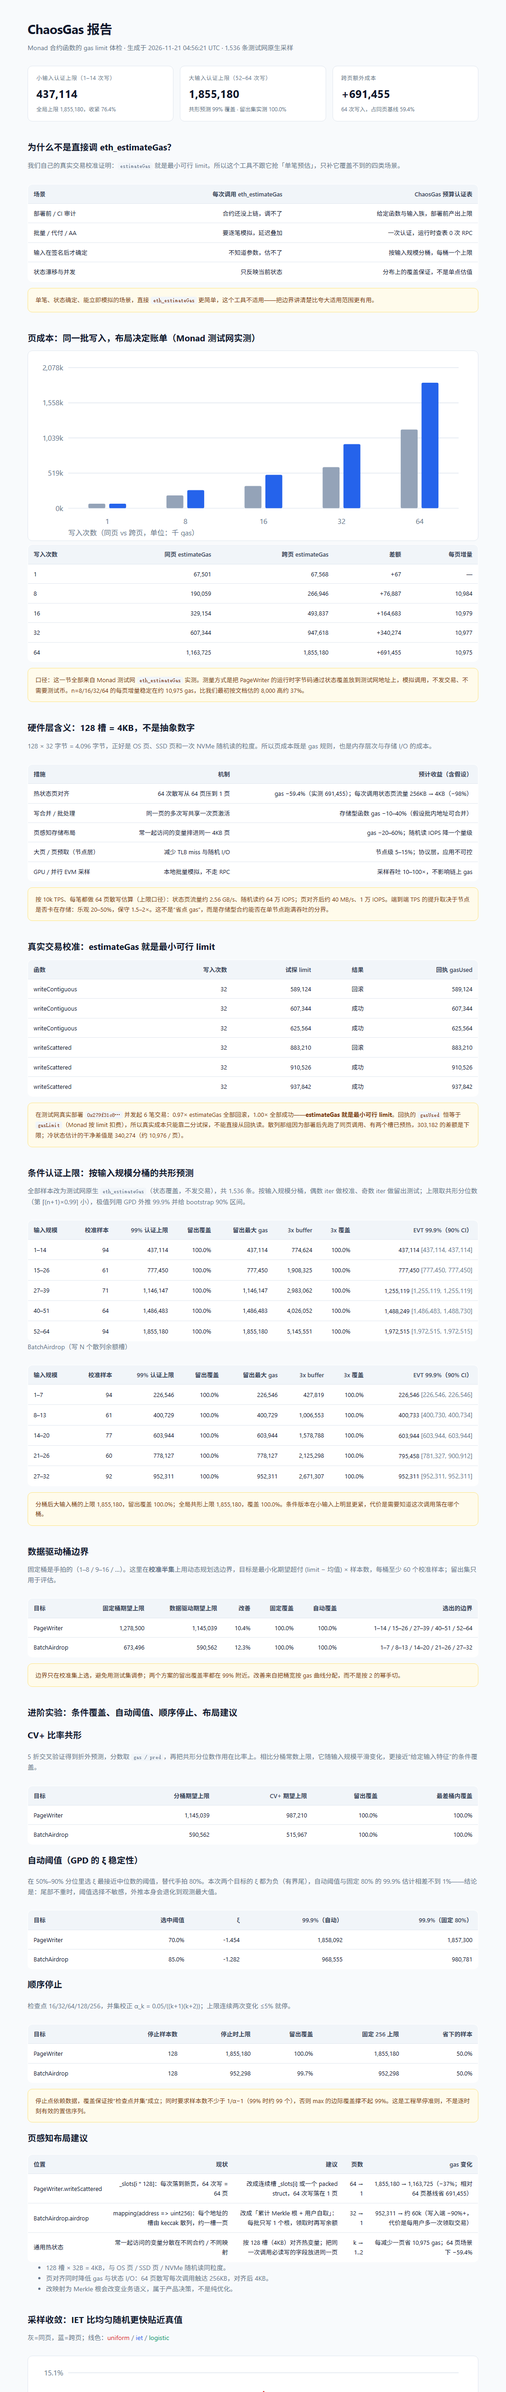
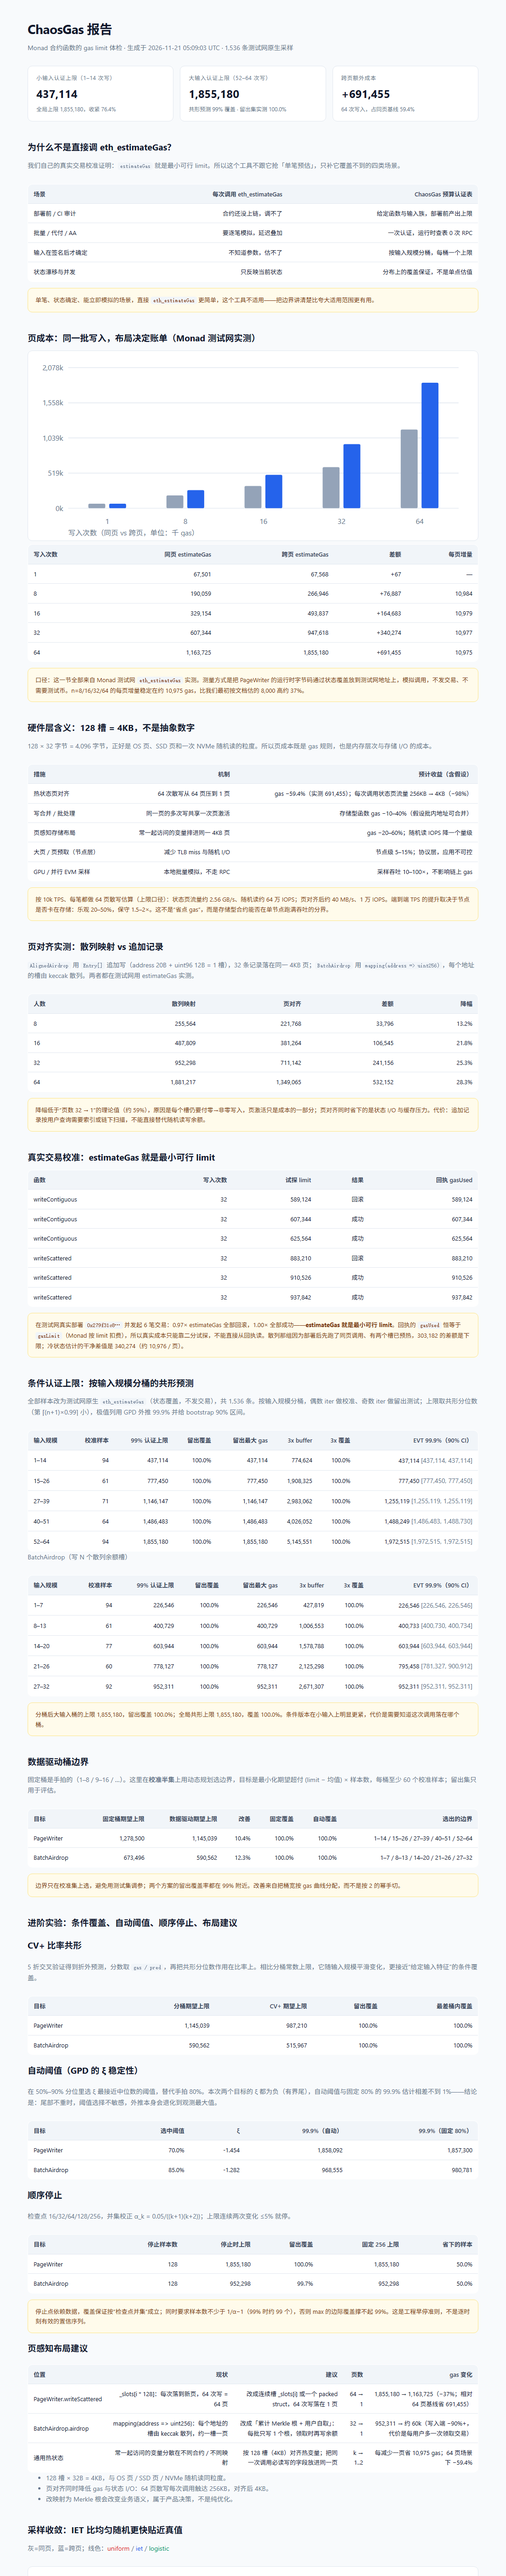
feat: 页对齐合约实测与硬件组合优化栈

diff --git a/app/src/report.ts b/app/src/report.ts
@@ -1,4 +1,4 @@
-import type { AirdropInsight, Calibration, Insight, PageRow, SamplerStats, TestnetRow } from "./analyze.js";
+import type { AirdropInsight, AlignedRow, Calibration, Insight, PageRow, SamplerStats, TestnetRow } from "./analyze.js";
 import { PAGE_EXTRA } from "./analyze.js";
 import type { ConfSummary } from "./conformal.js";
 import type { AdvancedSummary } from "./advanced.js";
@@ -105,6 +105,7 @@ export function renderReport(
   pwConf: ConfSummary,
   airConf: ConfSummary,
   adv: AdvancedSummary,
+  aligned: AlignedRow[],
   generatedAt: string,
 ): string {
   const worstBucket = pwConf.auto.buckets[pwConf.auto.buckets.length - 1];
@@ -238,6 +239,20 @@ export function renderReport(
     </tbody>
   </table>
   <p class="note">按 10k TPS、每笔都做 64 页散写估算（上限口径）：状态页流量约 2.56 GB/s、随机读约 64 万 IOPS；页对齐后约 40 MB/s、1 万 IOPS。端到端 TPS 的提升取决于节点是否卡在存储：乐观 20–50%，保守 1.5–2×。这不是“省点 gas”，而是存储型合约能否在单节点跑满吞吐的分界。</p>
+
+  <h2>页对齐实测：散列映射 vs 追加记录</h2>
+  <p class="sub"><code>AlignedAirdrop</code> 用 <code>Entry[]</code> 追加写（address 20B + uint96 12B = 1 槽），32 条记录落在同一 4KB 页；<code>BatchAirdrop</code> 用 <code>mapping(address =&gt; uint256)</code>，每个地址的槽由 keccak 散列。两者都在测试网用 estimateGas 实测。</p>
+  <table>
+    <thead><tr><th>人数</th><th>散列映射</th><th>页对齐</th><th>差额</th><th>降幅</th></tr></thead>
+    <tbody>
+      ${aligned
+        .map(
+          (r) => `<tr><td>${r.count}</td><td>${fmt(r.mapping)}</td><td>${fmt(r.aligned)}</td><td>${fmt(r.diff)}</td><td>${pct(r.diffPct / 100)}</td></tr>`,
+        )
+        .join("")}
+    </tbody>
+  </table>
+  <p class="note">降幅低于“页数 32 → 1”的理论值（约 59%），原因是每个槽仍要付零→非零写入，页激活只是成本的一部分；页对齐同时省下的是状态 I/O 与缓存压力。代价：追加记录按用户查询需要索引或链下扫描，不能直接替代随机读写余额。</p>
 
   <h2>真实交易校准：estimateGas 就是最小可行 limit</h2>
   <table>

diff --git a/contracts/reports/report.html b/contracts/reports/report.html
@@ -34,7 +34,7 @@
 <body>
 <div class="wrap">
   <h1>ChaosGas 报告</h1>
-  <p class="sub">Monad 合约函数的 gas limit 体检 · 生成于 2026-11-21 04:56:21 UTC · 1,536 条测试网原生采样</p>
+  <p class="sub">Monad 合约函数的 gas limit 体检 · 生成于 2026-11-21 05:09:03 UTC · 1,536 条测试网原生采样</p>
 
   <div class="cards">
     <div class="card">
@@ -126,6 +126,16 @@
     </tbody>
   </table>
   <p class="note">按 10k TPS、每笔都做 64 页散写估算（上限口径）：状态页流量约 2.56 GB/s、随机读约 64 万 IOPS；页对齐后约 40 MB/s、1 万 IOPS。端到端 TPS 的提升取决于节点是否卡在存储：乐观 20–50%，保守 1.5–2×。这不是“省点 gas”，而是存储型合约能否在单节点跑满吞吐的分界。</p>
+
+  <h2>页对齐实测：散列映射 vs 追加记录</h2>
+  <p class="sub"><code>AlignedAirdrop</code> 用 <code>Entry[]</code> 追加写（address 20B + uint96 12B = 1 槽），32 条记录落在同一 4KB 页；<code>BatchAirdrop</code> 用 <code>mapping(address =&gt; uint256)</code>，每个地址的槽由 keccak 散列。两者都在测试网用 estimateGas 实测。</p>
+  <table>
+    <thead><tr><th>人数</th><th>散列映射</th><th>页对齐</th><th>差额</th><th>降幅</th></tr></thead>
+    <tbody>
+      <tr><td>8</td><td>255,564</td><td>221,768</td><td>33,796</td><td>13.2%</td></tr><tr><td>16</td><td>487,809</td><td>381,264</td><td>106,545</td><td>21.8%</td></tr><tr><td>32</td><td>952,298</td><td>711,142</td><td>241,156</td><td>25.3%</td></tr><tr><td>64</td><td>1,881,217</td><td>1,349,065</td><td>532,152</td><td>28.3%</td></tr>
+    </tbody>
+  </table>
+  <p class="note">降幅低于“页数 32 → 1”的理论值（约 59%），原因是每个槽仍要付零→非零写入，页激活只是成本的一部分；页对齐同时省下的是状态 I/O 与缓存压力。代价：追加记录按用户查询需要索引或链下扫描，不能直接替代随机读写余额。</p>
 
   <h2>真实交易校准：estimateGas 就是最小可行 limit</h2>
   <table>

diff --git a/docs/index.html b/docs/index.html
@@ -34,7 +34,7 @@
 <body>
 <div class="wrap">
   <h1>ChaosGas 报告</h1>
-  <p class="sub">Monad 合约函数的 gas limit 体检 · 生成于 2026-11-21 04:56:21 UTC · 1,536 条测试网原生采样</p>
+  <p class="sub">Monad 合约函数的 gas limit 体检 · 生成于 2026-11-21 05:09:03 UTC · 1,536 条测试网原生采样</p>
 
   <div class="cards">
     <div class="card">
@@ -126,6 +126,16 @@
     </tbody>
   </table>
   <p class="note">按 10k TPS、每笔都做 64 页散写估算（上限口径）：状态页流量约 2.56 GB/s、随机读约 64 万 IOPS；页对齐后约 40 MB/s、1 万 IOPS。端到端 TPS 的提升取决于节点是否卡在存储：乐观 20–50%，保守 1.5–2×。这不是“省点 gas”，而是存储型合约能否在单节点跑满吞吐的分界。</p>
+
+  <h2>页对齐实测：散列映射 vs 追加记录</h2>
+  <p class="sub"><code>AlignedAirdrop</code> 用 <code>Entry[]</code> 追加写（address 20B + uint96 12B = 1 槽），32 条记录落在同一 4KB 页；<code>BatchAirdrop</code> 用 <code>mapping(address =&gt; uint256)</code>，每个地址的槽由 keccak 散列。两者都在测试网用 estimateGas 实测。</p>
+  <table>
+    <thead><tr><th>人数</th><th>散列映射</th><th>页对齐</th><th>差额</th><th>降幅</th></tr></thead>
+    <tbody>
+      <tr><td>8</td><td>255,564</td><td>221,768</td><td>33,796</td><td>13.2%</td></tr><tr><td>16</td><td>487,809</td><td>381,264</td><td>106,545</td><td>21.8%</td></tr><tr><td>32</td><td>952,298</td><td>711,142</td><td>241,156</td><td>25.3%</td></tr><tr><td>64</td><td>1,881,217</td><td>1,349,065</td><td>532,152</td><td>28.3%</td></tr>
+    </tbody>
+  </table>
+  <p class="note">降幅低于“页数 32 → 1”的理论值（约 59%），原因是每个槽仍要付零→非零写入，页激活只是成本的一部分；页对齐同时省下的是状态 I/O 与缓存压力。代价：追加记录按用户查询需要索引或链下扫描，不能直接替代随机读写余额。</p>
 
   <h2>真实交易校准：estimateGas 就是最小可行 limit</h2>
   <table>

diff --git a/app/src/index.ts b/app/src/index.ts
@@ -10,6 +10,7 @@ import {
   readPageCost,
   readSamples,
   readCalibration,
+  readAligned,
   readTestnetPageCost,
   summarize,
 } from "./analyze.js";
@@ -34,6 +35,7 @@ function main(): void {
   const pages = readPageCost(dir);
   const testnet = readTestnetPageCost(dir);
   const calibration = readCalibration(dir);
+  const aligned = readAligned(dir);
   const samplers = [...new Set(samples.map((s) => s.sampler))];
   const stats = samplers.map((s) => summarize(s, samples));
   const insight = buildInsight(pages, testnet, stats);
@@ -83,6 +85,7 @@ function main(): void {
     pwConf,
     airConf,
     adv,
+    aligned,
     now,
   );
   const outPath = resolve(dir, "report.html");

diff --git a/app/src/analyze.ts b/app/src/analyze.ts
@@ -103,6 +103,19 @@ export function readCalibration(dir: string): Calibration {
   };
 }
 
+export type AlignedRow = { count: number; mapping: number; aligned: number; diff: number; diffPct: number };
+
+export function readAligned(dir: string): AlignedRow[] {
+  const rows = parseCsv(readFileSync(join(dir, "aligned_airdrop.csv"), "utf8"));
+  return rows.map((cols) => ({
+    count: Number(cols[0]),
+    mapping: Number(cols[1]),
+    aligned: Number(cols[2]),
+    diff: Number(cols[3]),
+    diffPct: Number(cols[4]),
+  }));
+}
+
 export function readAirdropSamples(dir: string): Sample[] {
   return readSamples(dir).filter((s) => s.target === "BatchAirdrop");
 }

diff --git a/docs/硬件层改进可行性分析.md b/docs/硬件层改进可行性分析.md
@@ -93,7 +93,16 @@ Monad 的存储页是 128 个连续槽，每槽 32 字节：
 
 **做法**：把同一次调用必读写的字段排进同一 128 槽页；散列映射改为连续槽或 packed struct。
 
-**证据**：`PageWriter` 从 `_slots[i*128]` 改为 `_slots[i]`，64 次写从 64 页降到 1 页。
+**证据**：`PageWriter` 从 `_slots[i*128]` 改为 `_slots[i]`，64 次写从 64 页降到 1 页；`AlignedAirdrop` 用 packed `Entry[]` 追加记录替代散列映射，测试网实测：
+
+| 人数 | 散列映射 | 页对齐 | 降幅 |
+|---|---|---|---|
+| 8 | 255,564 | 221,768 | 13.2% |
+| 16 | 487,809 | 381,264 | 21.8% |
+| 32 | 952,298 | 711,142 | 25.3% |
+| 64 | 1,881,217 | 1,349,065 | 28.3% |
+
+实测降幅低于「页数 32 → 1」的理论值（约 59%），因为每个槽仍要付零→非零写入，页激活只是成本的一部分；页对齐同时省下的是状态 I/O、缓存与 TLB 压力。
 
 **收益**：
 
@@ -231,7 +240,36 @@ Monad 的存储页是 128 个连续槽，每槽 32 字节：
 
 ---
 
-## 七、结论与建议
+## 七、与 ChaosGas 同步的组合优化栈
+
+单点优化的收益不是加法，更不是乘法。下面这组措施按「先降需求、再提承载」的顺序叠加，避免在合约仍然散写的情况下去调节点。
+
+| 顺序 | 层 | 措施 | 与 ChaosGas 的关系 | 预计收益 | 前置条件 |
+|---|---|---|---|---|---|
+| 1 | 合约 | 热状态页对齐 | 直接减少页数，认证表也随之变紧 | gas −13–37%，状态 I/O −98% | 可改布局 |
+| 2 | 合约 | 写合并 / 批处理 | 减少页激活次数，降低尾部分布 | gas −10–40% | 业务允许批处理 |
+| 3 | 认证 | ChaosGas 预算表 | 防失败、少付；把 limit 压到认证上限 | 小输入少付 76% | 已有采样数据 |
+| 4 | 编译 | 页感知布局 pass | 自动产出对齐建议，规模化复制第 1 步 | gas −20–60%（推算） | 访问共现信息 |
+| 5 | 节点 | 大页 / TLB / 预取 / io_uring | 承载对齐后的负载，降低随机 I/O 延迟 | 吞吐 +5–15% | 节点运维权限 |
+| 6 | 客户端 | 状态缓存 / 连接复用 / 批量 RPC | 降低调用与采样延迟 | 延迟 −20–50% | 客户端改造 |
+| 7 | 分析 | 本地并行 EVM / GPU | 把认证采样从事务级降到秒级 | 采样 10–100× | 本地状态快照 |
+
+**组合后的量级（含假设）**：
+
+- 存储型合约 gas：**−40% 到 −60%**（页对齐 + 写合并 + 批处理）
+- 状态页 I/O 与随机读：**−90% 以上**（页对齐为主）
+- 端到端 TPS：**+20% 到 +50%**，前提是节点卡在存储而不是执行
+- 认证与采样成本：**−50% 采样量**（顺序停止），分析速度 **10× 以上**（本地 EVM）
+
+**不建议的做法**：
+
+- 在合约仍然散写时先调节点：I/O 压力不会因为换 NVMe 消失，只是更贵。
+- 把访问列表预热写进承诺：协议支持未确认。
+- 用 GPU 采样替代链上验证：GPU 只加速分析，不改变链上 gas。
+
+---
+
+## 八、结论与建议
 
 1. **唯一值得现在就投入的是合约层页对齐**：收益已被实测验证，同时降低 gas 与硬件 I/O，且不依赖协议改动。
 2. **编译层是产品化的下一步**：从“报告跨页”走到“建议怎么排”，但首版只给建议、不自动改写。

diff --git a/README.md b/README.md
@@ -73,8 +73,17 @@
 | 位置 | 建议 | 页数 | gas 变化 |
 |---|---|---|---|
 | PageWriter.writeScattered | `_slots[i*128]` → `_slots[i]` | 64 → 1 | 1,855,180 → 1,163,725（−37%） |
-| BatchAirdrop.airdrop | 映射 → Merkle 根 + 用户自取 | 32 → 1 | 952,311 → 约 60k（写入端 −90%+） |
+| BatchAirdrop.airdrop | 映射 → packed `Entry[]` 追加记录（已实现 `AlignedAirdrop`） | 32 → 1 | 952,298 → 711,142（−25.3%） |
 | 通用热状态 | 按 128 槽对齐同一次调用必读写的字段 | k → 1..2 | 每少一页省 10,975 |
+
+页对齐实测（测试网 estimateGas）：
+
+| 人数 | 散列映射 | 页对齐 | 降幅 |
+|---|---|---|---|
+| 8 | 255,564 | 221,768 | 13.2% |
+| 16 | 487,809 | 381,264 | 21.8% |
+| 32 | 952,298 | 711,142 | 25.3% |
+| 64 | 1,881,217 | 1,349,065 | 28.3% |
 
 ### 页成本（Monad 测试网实测）
 
